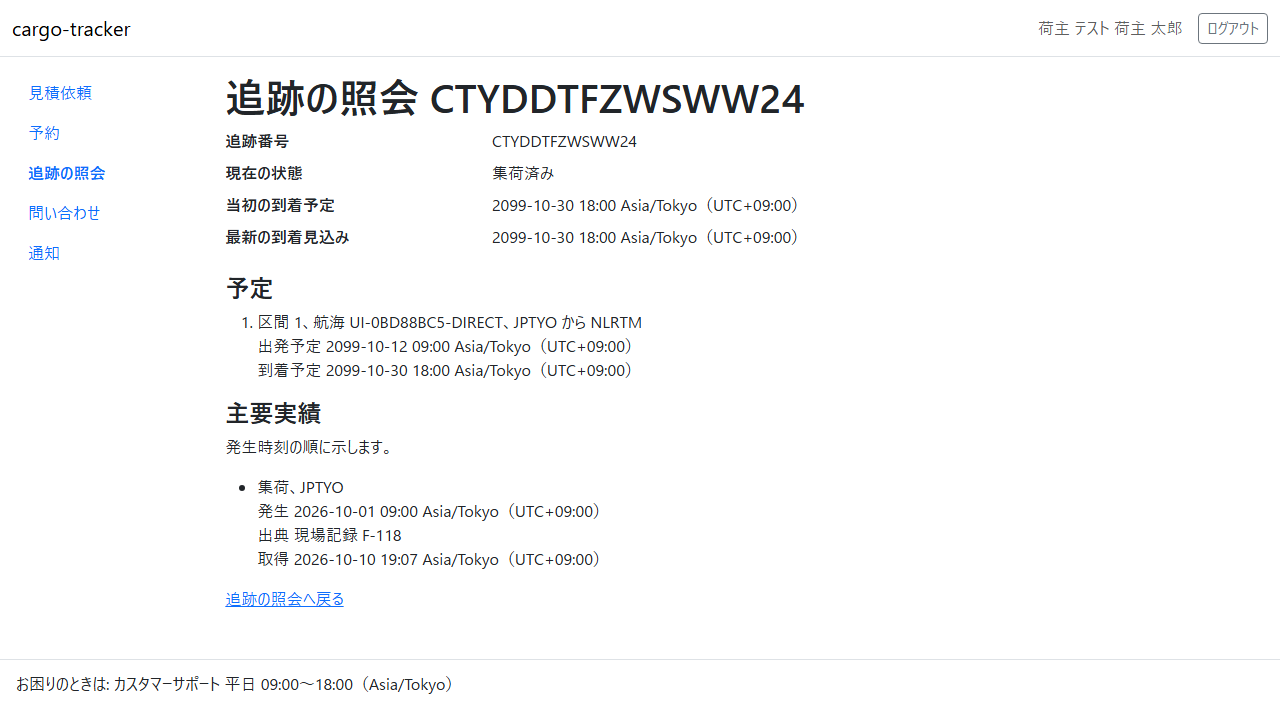
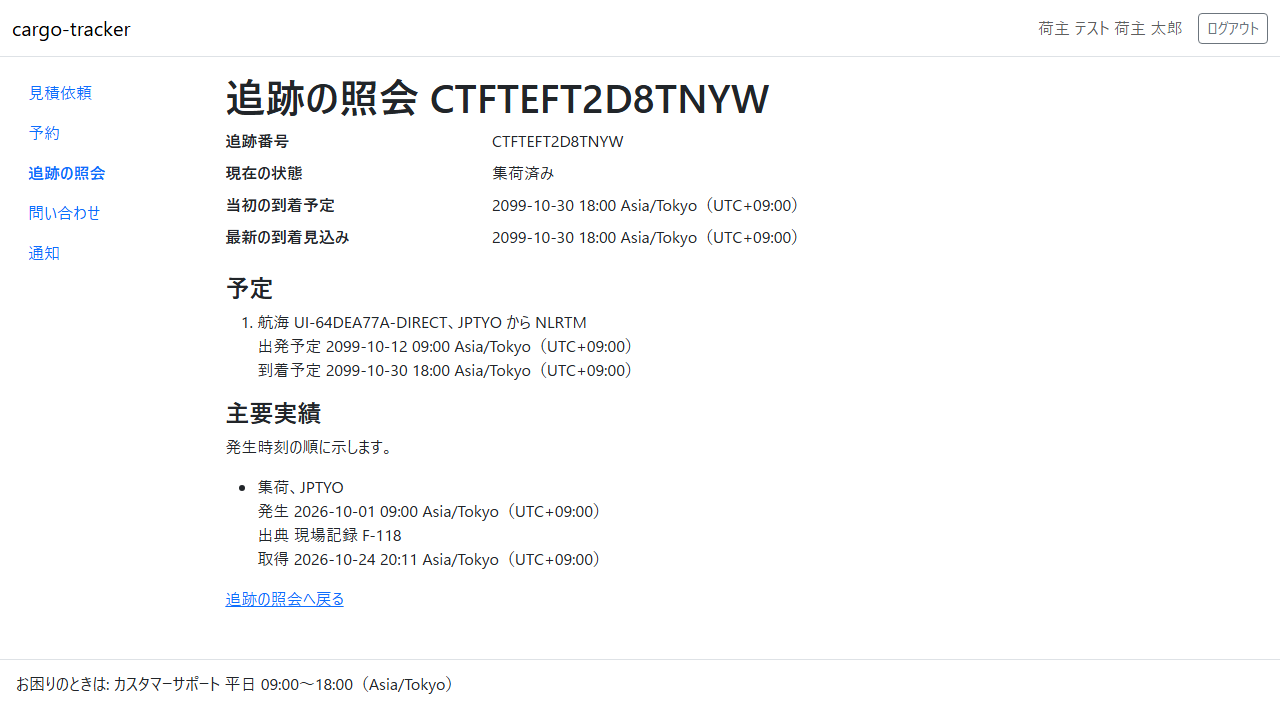
feat(ui): 荷主の画面の「区間」を「航海」にそろえる（Bolt 37f3）
- 荷主の追跡の照会の結果（C-10）の予定の行を「航海 V100、JPTYO から KRPUS」にする。社内の S-12 は「区間 1、…」のまま
- 共通の部品の経路の表の読み上げの名前を「確定した経路の航海（…）」にする（C-04・C-17・S-04）
- C-04・C-17・C-10 で「区間」が出ないことを MockMvc で確かめる。画面の層は先頭の行の形を確かめる
- マニュアル 4・5 章・用語集（区間は社内の語）と 05 章のキャプチャ、ui_design、release_plan を直す
- 開発レビューの指摘（区間が出ない確かめ、文言）を反映した

Claude-Session: https://claude.ai/code/session_01LDW6HVmiazMbqbG4c8UQGq

diff --git a/apps/cargo-tracker/src/main/resources/templates/tracking/tracking-records/show.html b/apps/cargo-tracker/src/main/resources/templates/tracking/tracking-records/show.html
@@ -24,7 +24,7 @@
     <h2 class="h4" id="schedule-heading">予定</h2>
     <ol aria-labelledby="schedule-heading">
         <li th:each="leg : ${trackingRecord.legs()}" class="mb-2">
-            <span th:text="${leg.summary()}">区間 1、航海 V100、JPTYO から KRPUS</span><br>
+            <span th:text="${leg.summary()}">航海 V100、JPTYO から KRPUS</span><br>
             <span th:text="|出発予定 ${leg.departureAt()}|">出発予定 2026-11-01 09:00 Asia/Tokyo（UTC+09:00）</span><br>
             <span th:text="|到着予定 ${leg.arrivalAt()}|">到着予定 2026-11-03 09:00 Asia/Tokyo（UTC+09:00）</span>
         </li>

diff --git a/apps/cargo-tracker/src/main/resources/templates/quotation/fragments/assigned-route.html b/apps/cargo-tracker/src/main/resources/templates/quotation/fragments/assigned-route.html
@@ -11,7 +11,7 @@
         <dt>到着予定</dt>
         <dd th:text="${route.arrivalAt()}">2026-10-31 09:00 Asia/Tokyo（UTC+09:00）</dd>
     </dl>
-    <div class="table-scroll" tabindex="0" role="region" th:aria-label="|確定した経路の区間（${route.label()}）|">
+    <div class="table-scroll" tabindex="0" role="region" th:aria-label="|確定した経路の航海（${route.label()}）|">
     <table class="table">
         <thead>
         <tr>

diff --git a/apps/cargo-tracker/src/main/java/com/example/cargotracker/tracking/interfaces/web/TrackingRecordViews.java b/apps/cargo-tracker/src/main/java/com/example/cargotracker/tracking/interfaces/web/TrackingRecordViews.java
@@ -19,6 +19,7 @@ import java.util.EnumMap;
 import java.util.List;
 import java.util.Map;
 import java.util.Optional;
+import java.util.function.BiFunction;
 import java.util.function.Function;
 import java.util.stream.IntStream;
 
@@ -143,7 +144,7 @@ final class TrackingRecordViews {
     /**
      * 予定区間の 1 項目。
      *
-     * @param summary 区間・航海・積地から揚地
+     * @param summary 航海・積地から揚地（社内の S-12 は先頭に「区間 n、」を付ける。荷主の C-10 は付けない。Bolt 37f3）
      * @param departureAt 出発予定
      * @param arrivalAt 到着予定
      */
@@ -168,7 +169,7 @@ final class TrackingRecordViews {
                 staff(trackingRecord.originalEta()),
                 staff(trackingRecord.latestEta()),
                 schedule.routingCaseNumber() + " 版 " + schedule.routeVersionNo(),
-                legs(schedule.legs(), TrackingRecordViews::staff),
+                legs(schedule.legs(), TrackingRecordViews::staff, TrackingRecordViews::legSummary),
                 trackingRecord.milestones().stream()
                         .sorted(Comparator.comparing((Milestone milestone) ->
                                         milestone.occurredAt().instant())
@@ -178,21 +179,32 @@ final class TrackingRecordViews {
     }
 
     /**
-     * 予定区間の項目（S-12 と C-10 で同じ。日時の書式だけが社内と荷主で違う。Bolt 27）。区間の表記は「→」でなく「から」にする
-     * （スクリーンリーダーが「右矢印」と読むため。Bolt 26 の U-4。Bolt 26c）。
+     * 予定区間の項目（S-12 と C-10 で形は同じ。日時の書式と 1 行の表記が社内と荷主で違う。Bolt 27・37f3）。積地と揚地は「→」でなく
+     * 「から」でつなぐ（スクリーンリーダーが「右矢印」と読むため。Bolt 26 の U-4。Bolt 26c）。
      */
-    private static List<LegView> legs(List<ScheduledLeg> legs, Function<UtcInstant, String> dateTime) {
+    private static List<LegView> legs(
+            List<ScheduledLeg> legs,
+            Function<UtcInstant, String> dateTime,
+            BiFunction<Integer, ScheduledLeg, String> summary) {
         return IntStream.range(0, legs.size())
                 .mapToObj(i -> new LegView(
-                        legSummary(i + 1, legs.get(i)),
+                        summary.apply(i + 1, legs.get(i)),
                         dateTime.apply(legs.get(i).departureAt()),
                         dateTime.apply(legs.get(i).arrivalAt())))
                 .toList();
     }
 
-    /** 区間の表記（S-12 と C-10 で同じ）。 */
+    /** 社内の S-12 の 1 行（「区間 n、航海 …」。区間は社内の語）。 */
     private static String legSummary(int legNo, ScheduledLeg leg) {
-        return "区間 " + legNo + "、航海 " + leg.voyageNumber() + "、" + leg.load().unLocode() + " から "
+        return "区間 " + legNo + "、" + customerLegSummary(leg);
+    }
+
+    /**
+     * 荷主の C-10 の 1 行（「航海 …、積地 から 揚地」）。社内の語「区間」と番号は出さず、順は順序付きのリストの並びで示す（候補は同じ
+     * 航海と港を 2 回使わず、予定はつながるので、行は航海と積地・揚地で区別できる。Bolt 37f の開始準備の決定 (4)。Bolt 37f3）。
+     */
+    private static String customerLegSummary(ScheduledLeg leg) {
+        return "航海 " + leg.voyageNumber() + "、" + leg.load().unLocode() + " から "
                 + leg.discharge().unLocode();
     }
 
@@ -270,7 +282,7 @@ final class TrackingRecordViews {
                 status(view.currentStatus()),
                 customer(view.originalEta()),
                 customer(view.latestEta()),
-                legs(view.legs(), TrackingRecordViews::customer),
+                legs(view.legs(), TrackingRecordViews::customer, (legNo, leg) -> customerLegSummary(leg)),
                 view.milestones().stream()
                         .map(TrackingRecordViews::customerMilestone)
                         .toList());

diff --git a/apps/cargo-tracker/src/test/java/com/example/cargotracker/tracking/interfaces/web/CustomerTrackingControllerTest.java b/apps/cargo-tracker/src/test/java/com/example/cargotracker/tracking/interfaces/web/CustomerTrackingControllerTest.java
@@ -3,6 +3,7 @@ package com.example.cargotracker.tracking.interfaces.web;
 import static org.assertj.core.api.Assertions.assertThat;
 import static org.hamcrest.Matchers.containsString;
 import static org.hamcrest.Matchers.not;
+import static org.hamcrest.Matchers.stringContainsInOrder;
 import static org.mockito.ArgumentMatchers.any;
 import static org.mockito.BDDMockito.given;
 import static org.mockito.BDDMockito.then;
@@ -181,7 +182,9 @@ class CustomerTrackingControllerTest {
                 .andExpect(content().string(containsString("2026-11-15 09:00 Asia/Tokyo（UTC+09:00）")))
                 .andExpect(content().string(containsString("2026-11-16 12:00 Asia/Tokyo（UTC+09:00）")))
                 .andExpect(content().string(containsString("<ol aria-labelledby=\"schedule-heading\"")))
-                .andExpect(content().string(containsString("区間 1、航海 V100、JPTYO から KRPUS")))
+                // 荷主の画面は社内の語「区間」を出さず、航海を予定の順に並べる（Bolt 37f3 の行 1）
+                .andExpect(content().string(stringContainsInOrder("航海 V100、JPTYO から KRPUS", "航海 V200、KRPUS から USLAX")))
+                .andExpect(content().string(not(containsString("区間"))))
                 .andExpect(content().string(containsString("出発予定 2026-11-01 09:00 Asia/Tokyo（UTC+09:00）")))
                 .andExpect(content().string(containsString("<ul aria-labelledby=\"milestones-heading\"")))
                 .andExpect(content().string(containsString("集荷、JPTYO")))

diff --git a/apps/cargo-tracker/src/test/java/com/example/cargotracker/ui/CustomerTrackingUiSteps.java b/apps/cargo-tracker/src/test/java/com/example/cargotracker/ui/CustomerTrackingUiSteps.java
@@ -7,6 +7,7 @@ import com.microsoft.playwright.Page;
 import com.microsoft.playwright.options.AriaRole;
 import io.cucumber.java.ja.ならば;
 import io.cucumber.java.ja.もし;
+import java.util.regex.Pattern;
 import org.springframework.beans.factory.annotation.Value;
 import org.springframework.boot.test.web.server.LocalServerPort;
 
@@ -84,7 +85,11 @@ public class CustomerTrackingUiSteps {
         assertThat(definition("現在の状態")).hasText(status);
         Locator legs = page().getByRole(
                         AriaRole.LIST, new Page.GetByRoleOptions().setName("予定").setExact(true));
-        assertThat(legs.getByRole(AriaRole.LISTITEM).first()).containsText("区間 1");
+        // 荷主の画面は社内の語「区間」を出さない（Bolt 37f3 の行 1。ある方を先に確かめる）
+        // 航海の名前は撮るたびに変わるので、先頭からの形で確かめる
+        assertThat(legs.getByRole(AriaRole.LISTITEM).first())
+                .containsText(Pattern.compile("^\\s*航海 \\S+、[A-Z]{5} から [A-Z]{5}"));
+        assertThat(legs.getByRole(AriaRole.LISTITEM).first()).not().containsText("区間");
         Locator milestones = page().getByRole(
                         AriaRole.LIST,
                         new Page.GetByRoleOptions().setName("主要実績").setExact(true));

diff --git a/apps/cargo-tracker/src/test/java/com/example/cargotracker/quotation/interfaces/web/StaffQuotationControllerTest.java b/apps/cargo-tracker/src/test/java/com/example/cargotracker/quotation/interfaces/web/StaffQuotationControllerTest.java
@@ -718,7 +718,9 @@ class StaffQuotationControllerTest {
                     .andExpect(content().string(containsString("を過ぎました。承認済みの経路版と経路方針を引き継いで再見積りできます。荷主の再承認が要ります。")))
                     .andExpect(content().string(not(containsString("再見積りはできません"))))
                     .andExpect(content().string(containsString("/quotations/1/requotation")))
-                    .andExpect(content().string(containsString("確定した経路（RC-2026-0001 経路版 1）")));
+                    .andExpect(content().string(containsString("確定した経路（RC-2026-0001 経路版 1）")))
+                    // 共通の部品なので社内の S-04 も同じ読み上げの名前（Bolt 37f3 の行 4）
+                    .andExpect(content().string(containsString("aria-label=\"確定した経路の航海（RC-2026-0001 経路版 1）\"")));
         } finally {
             clock.setInstant(NOW);
         }

diff --git a/apps/cargo-tracker/src/test/java/com/example/cargotracker/quotation/interfaces/web/QuotationApprovalControllerTest.java b/apps/cargo-tracker/src/test/java/com/example/cargotracker/quotation/interfaces/web/QuotationApprovalControllerTest.java
@@ -155,6 +155,9 @@ class QuotationApprovalControllerTest {
                 .andExpect(content().string(containsString("3,730.00 USD")))
                 .andExpect(content().string(containsString("2099-10-08 18:00 Asia/Tokyo（UTC+09:00）")))
                 .andExpect(content().string(containsString("RC-2026-0001 経路版 1")))
+                // 経路の表の読み上げの名前（Bolt 37f3 の行 3）
+                .andExpect(content().string(containsString("aria-label=\"確定した経路の航海（RC-2026-0001 経路版 1）\"")))
+                .andExpect(content().string(not(containsString("区間"))))
                 .andExpect(content().string(containsString("2026-10-07 14:00 Asia/Tokyo（UTC+09:00）")))
                 .andExpect(content().string(containsString("V-201")))
                 .andExpect(content().string(containsString("JPTYO → SGSIN")))

diff --git a/apps/cargo-tracker/src/test/java/com/example/cargotracker/quotation/interfaces/web/TransportRequestControllerTest.java b/apps/cargo-tracker/src/test/java/com/example/cargotracker/quotation/interfaces/web/TransportRequestControllerTest.java
@@ -493,6 +493,9 @@ class TransportRequestControllerTest {
         mockMvc.perform(get("/customer/transport-requests/TR-2026-0001"))
                 .andExpect(content().string(containsString("見積 1（見積りと経路の承認待ち）")))
                 .andExpect(content().string(containsString("確定した経路（RC-2026-0001 経路版 1）")))
+                // 経路の表の読み上げの名前は社内の語「区間」を使わない（Bolt 37f3 の行 3）
+                .andExpect(content().string(containsString("aria-label=\"確定した経路の航海（RC-2026-0001 経路版 1）\"")))
+                .andExpect(content().string(not(containsString("区間"))))
                 .andExpect(content().string(containsString("JPTYO → SGSIN")))
                 .andExpect(
                         content()

diff --git a/apps/cargo-tracker/src/test/java/com/example/cargotracker/tracking/interfaces/web/TrackingRecordControllerTest.java b/apps/cargo-tracker/src/test/java/com/example/cargotracker/tracking/interfaces/web/TrackingRecordControllerTest.java
@@ -191,6 +191,7 @@ class TrackingRecordControllerTest {
                         .string(containsString("2026-11-16 12:00 Asia/Tokyo（UTC+09:00）（UTC 2026-11-16 03:00）")))
                 .andExpect(content().string(containsString("<dd class=\"col-sm-9\">RC-2026-0001 版 1</dd>")))
                 .andExpect(content().string(containsString("<ol aria-labelledby=\"schedule-heading\"")))
+                // 社内の S-12 は「区間 n、」のまま（Bolt 37f3 の行 2。荷主の C-10 だけ「航海 …」にした）
                 .andExpect(content().string(containsString("区間 1、航海 V100、JPTYO から KRPUS")))
                 .andExpect(content().string(containsString("区間 2、航海 V200、KRPUS から USLAX")))
                 .andExpect(content()

diff --git a/docs/design/cargo-tracker/ui_design.md b/docs/design/cargo-tracker/ui_design.md
@@ -4,7 +4,7 @@ title: "cargo-tracker UI 設計"
 description: "cargo-tracker の顧客 Web と社内業務 Web の画面オブジェクト、システムメタファー、画面一覧、画面遷移、主要画面のイメージ、共通部品（WCAG 2.2 AA）、エラー時を含むインタラクション。"
 tags: [design, ui]
 status: stable
-generated: { by: anthropic/claude-opus-5-5, at: 2026-10-23T10:51:10Z }
+generated: { by: anthropic/claude-opus-5-5, at: 2026-10-24T11:57:25Z }
 verified:
   - { by: human:kakimomokuri, at: 2026-10-01T07:57:45Z }
   - { by: human:kakimomokuri, at: 2026-10-01T09:01:39Z }
@@ -44,7 +44,7 @@ verified:
 
 ## システムメタファー
 
-輸送の情報を **旅程表** にたとえ、顧客 Web と社内業務 Web で同じ語彙を使う。
+輸送の情報を **旅程表** にたとえ、顧客 Web と社内業務 Web で同じ語彙を使う。ただし「区間」は社内の語とし、荷主の画面（顧客 Web）とマニュアルの荷主の章では「航海」と示す（Bolt 37f の開始準備の決定 (4)。Bolt 37f3）。経路の表の読み上げの名前は共通の部品なので、社内の S-04 も「確定した経路の航海（…）」とする。
 
 | 旅程表のたとえ | 画面の語 | ドメインの概念 |
 | :--- | :--- | :--- |
@@ -157,12 +157,12 @@ verified:
 | C-03 見積依頼の作成・編集 | `GET /customer/transport-requests/new`、`POST /customer/transport-requests` | 必須条件（荷受人・出発地・目的地・希望到着期限・貨物）とエラー要約、特殊貨物の案内を持つ。共通レイアウト（顧客 Web）の中で、輸送条件・貨物・書類・確認の 4 段階の段階入力にする（Bolt 8。下の「段階入力」）。荷受人は企業マスターができるまで設定の仮の一覧から選ぶ（US-16 で置き換える）。必要書類の入力は種類ごとの欄（`multipart/form-data`）で、1 つの版に 5 件まで（商業送り状 1 件、梱包明細 1 件、その他 3 件まで。Q-INV-16）。書類は任意（D-20）。形式・容量・件数の誤りはエラー要約で示し、ブラウザはファイルの選択を残せないため、エラー要約と書類の段階で選び直しを求める（Bolt 6〜8 レビュー R-02・R-20）。失効の後に入力の控えを戻すと段階 1 から開き、ファイルは段階 3 で選び直す（Bolt 32f。下の「段階入力」の表の「失効の後の入力の戻し」） |
 | C-02 見積依頼の一覧 | `GET /customer/transport-requests` | Bolt 6 は自社の輸送要求を、最初の提出時刻の新しい順に一覧する（ページ分けと状態の絞り込みは後の Bolt）。業務番号、版、状態（いま誰の対応待ちか）、出発地 → 目的地、提出時刻を示す。Bolt 35d（D-85）で、輸送要求が予約待ち・荷主承認待ちの行は、状態を荷主に見える最新の見積り（提示済みで見積り番号の最大）から選び、C-04 と同じ表示にする（「輸送要求の状態と荷主の画面の表示の対応」の節。輸送要求の状態の更新（DE-24・DE-04 の受け取り）を待たない）。最新の見積りは、自社の輸送要求ごとに状態・有効期限・荷主の承認の時刻・提示の時刻・荷主の回答の時刻を返す集約を組み立てない読み取りモデル（`ShipperLatestQuotationSummary`）で得て、業務番号で行に合わせる。照会は輸送要求の状態で絞らない（どの状態で見積りから選ぶかは画面の `TransportRequestLabels.customerStage` だけが決める。Bolt 35d の開発レビュー）。社内の一覧と共用の輸送要求の読み取りモデル（`TransportRequestSummary`）は変えない（D-85。Bolt 35d） |
 | C-04 見積依頼の詳細 | `GET /customer/transport-requests/{業務番号}` | Bolt 6 は版、状態、いま誰の対応待ちか、輸送条件、直近の差戻しの理由と不足事項、下書きのときの編集への入口を示す（担当営業・複製・取下げは後の Bolt）。Bolt 10 で、提示済みの見積りがあれば見積りの節（料金明細と合計、有効期限（利用者のタイムゾーンと UTC offset）、経路方針、詳細な経路は経路設計者の承認後に確定する旨）を足す。見積りの節は見積りの状態から出し、輸送要求の状態の更新（DE-03 の受け取り）を待たない（2026-10-05 に承認）。Bolt 11 で、最新の見積り（提示済み・置換済み・失効）を出す。置換済みなら「この見積りは読み取り専用です。担当営業が新しい見積りを準備しています。提示されるまでお待ちください。」、失効（表示する時刻で有効期限を過ぎたものを含む）なら有効期限と「新しい見積りは担当営業にご依頼ください。」を出し、回答の案内は出さない。荷主には状態の「置換済み」を「新しい見積りに置き換え」と示す（Bolt 11 レビュー R-01・R-03・R-33、D-37）。旧版は最新の見積りの下に、見積り番号の降順で読み取り専用で並べる。作成中・承認待ちの見積りは荷主に見せない（2026-10-05 に承認）。審査の確定の根拠と判断者は見せない。提出と出し直しの後の PRG のリダイレクト先で、結果（例: TR-2026-0001 版 1 を提出しました）を上部に示す。旧 C-03 の提出の完了（`/{業務番号}/submitted`）を統合してなくした（2026-10-03 に承認）。Bolt 12 で、提示済みで有効な見積りに「見積りに回答する」（C-05 へのリンク）を出し、Bolt 10 の仮の案内を置き換える。詳細設計依頼済みの見積りは荷主に「詳細経路設計を依頼済み」と回答の日時を示す（2026-10-06 に承認）。経路設計中に失効したら、依頼の日時を残し「有効期限（…）を過ぎました。詳細経路設計は依頼済みのまま進めています。料金の扱いは担当営業からご連絡します。」と示し、新しい見積りの依頼は求めない（Bolt 12 レビュー R-01、D-42）。Bolt 20 で、荷主承認待ちの見積りに「確定した経路（RC-… 経路版 n）が届きました」と「見積りと経路を確かめて承認へ」（C-17 へのリンク）を、承認済みの見積りに承認の日時と「担当営業が本予約を確定します。確定したらご連絡します。」を示す。承認の後に有効期限を過ぎたら「承認の後に有効期限（…）を過ぎました。本予約の扱いは担当営業からご連絡します。」を示す（Bolt 20 レビュー）。荷主承認待ちで失効したら、承認の入口を出さず「有効期限（…）を過ぎたため承認できません。新しい見積りは担当営業にご依頼ください。」を示す。Bolt 35d（D-85）で、輸送要求が予約待ち・荷主承認待ちのとき、状態と案内を荷主に見える最新の見積りから選ぶ（C-02 と同じ。「輸送要求の状態と荷主の画面の表示の対応」の節）。再見積りした見積り（再承認の見積り。荷主の回答の時刻が提示の時刻より前）で荷主承認待ち・有効なら、状態の下の案内に「料金と有効期限を出し直した見積りが届きました。もう一度承認してください。」、見積りの節に「承認いただいた経路のまま、料金と有効期限を出し直した見積りです。」を示し、承認の入口は今のまま出す（状態の下の案内は「すること」、見積りの節は「事実」。同じ文を 2 回出さない。Bolt 35d の開発レビュー。human:kakimomokuri の決定 (8)）。荷主承認済みで失効した見積り（承認済みのまま時刻で失効、または再見積りで失効を記録）で、予約確定済みでなければ、状態の下に「承認の後に見積りの有効期限を過ぎました。担当営業が新しい見積りを用意しています。」、見積りの節に「承認の後に有効期限（…）を過ぎました。用意できたら、もう一度承認をお願いします。」の 1 文だけを示す（この判定は controller の 1 か所（`expiredAfterApproval`）で決め、テンプレートはその値だけを見る）（Bolt 20 の「承認の後に有効期限（…）を過ぎました。本予約の扱いは担当営業からご連絡します。」と、失効の「新しい見積りは担当営業にご依頼ください。」は出さない）。予約確定済みで承認済みの見積りは、期限を過ぎていても承認の記録「…にこの見積りと経路を承認しました。」だけを示す（承認の後の失効の文を出さない）。「詳細経路設計を依頼済み」と回答の日時（依頼の文）は、詳細設計依頼済み・荷主承認待ち・承認済みで、再承認の見積りでなく、承認の後に失効して予約確定済みでないとき以外示す（再承認の見積りの回答の日時は旧版から引き継いだもので、その見積りで依頼した事実はない）。以前の見積り（読み取り専用の一覧）は今のまま（D-85。Bolt 35d）。Bolt 37e3（US-07 AC5）で、割り当てた経路に再設計要の印のある見積りは、承認の入口（「見積りと経路を確かめて承認へ」）を出さず、状態の下の案内を理由に替える。荷主承認待ちなら「割り当てた経路の見直しが必要になったため、この見積りと経路は承認できません。担当営業にご相談ください。」、承認済みなら「割り当てた経路の見直しが必要になりました。本予約の扱いは担当営業からご連絡します。」を示し、「承認してください」「担当営業が本予約を確定します。確定したらご連絡します。」を出さない。状態の表示名は今のまま。荷主の画面なので社内の語（再設計要、印、DE-06、経路版の番号）を出さない。案内は輸送要求の状態だけで組み立てていたので、見積りの印を渡す。失効の案内（承認の後の失効を含む）は今のまま先に示す（見積りの判定は期限切れを先に返す）。印のない見積りは今のまま（Bolt 37e3 計画の状態の組み合わせの行 1〜3。下の「C-04 見積依頼の詳細（進み具合）」の節）。Bolt 37e4（US-07 AC5、D-88）で、割り当てた経路の最初の区間の出発予定が表示する時刻と同時刻か前の見積り（出発済み）も、承認の入口を出さず、状態の下の案内を理由に替える。荷主承認待ち（再承認の見積りを含む）なら「割り当てた経路の最初の航海がすでに出発したため、この見積りと経路は承認できません。担当営業にご相談ください。」、承認済みなら「割り当てた経路の最初の航海がすでに出発しました。本予約の扱いは担当営業からご連絡します。」を示し、「もう一度承認してください」「担当営業が本予約を確定します。確定したらご連絡します。」（見積りの節の段落を含む）を出さない。荷主の画面なので社内の語（区間、出発済み、再設計要）を出さず、経路の表の列の語「航海」で示す。再設計要の印と出発済みの両方なら再設計要の案内だけを示す（見積りの判定は再設計要を先に返す）。失効の案内は今のまま先に示す（Bolt 37e4 計画の状態の組み合わせの行 8〜10） |
-| C-17 見積りと経路の承認 | `GET /customer/transport-requests/{業務番号}/quotations/{見積り番号}/approval`、`POST …/approval` | Bolt 20（US-24 AC4・AC5）。画面そのものが確認の領域（C-05・S-07 と同じ。別のダイアログは挟まない。BR-13）。料金明細と合計、有効期限（利用者のタイムゾーンと UTC offset）、確定した経路（案件番号と経路版、確定の日時、区間ごとの航海・積地 → 揚地・出発予定・到着予定。最後の到着予定を「到着予定」として示す）、「この見積りと経路で承認しますか」、「有効期限（…）までに承認してください。」、「承認は本予約の確定ではありません。承認の後、担当営業が本予約を確定します。」と「この見積りと経路で承認する」。搬入締切・書類締切は本予約（US-04）で決まるため示さない。ボタンの後に「条件を見直したい場合は、承認せずに業務番号を添えて担当営業にご連絡ください。」を示す。承認すると PRG で C-04 に戻り「TR-2026-0001 見積 1 の見積りと経路を承認しました。担当営業が本予約を確定します。」を示す。承認できない見積りは、開いても送っても C-04 に戻して理由を示す: 失効（承認の時刻が有効期限と同時刻または後）は「…は有効期限を過ぎたため承認できません。新しい見積りは担当営業にご依頼ください」、置換済みは「…は新しい見積りに置き換えられたため承認できません。見積依頼の詳細で最新の状況をご確認ください」、承認済み（二重送信など）は結果として「…の見積りと経路はすでに承認しています」、荷主承認待ちでない（経路の割当ての前）は「…はまだ承認できる見積りではありません。経路が確定したら承認できます」、競合は「見積りが更新されました。最新の見積りと経路を確かめてから承認してください」。荷主の画面の見積りの状態は「見積りと経路の承認待ち」「承認済み」と示し、経路を割り当てた見積りでは「詳細な経路は経路設計者の承認後に確定します」を出さない（Bolt 20 の実装で決めた）。荷主に提示していない見積りと他社の番号は 404。荷主担当者だけが開ける（他の役割は 403）。Bolt 35d（D-85）で、再承認の見積り（荷主の回答の時刻が提示の時刻より前）なら、「この見積りと経路で承認しますか」の前に「承認いただいた経路のまま、料金と有効期限を出し直した見積りです。」を示す（Bolt 35d の開発レビューで「経路版と経路方針」を「経路」にした。human:kakimomokuri の決定 (8)）。画面は見積り番号に依らず、再見積りした見積り（見積 2 など）も同じ URL で開いて承認できる。成功の文言は今のまま（D-85。Bolt 35d）。Bolt 37e3（US-07 AC5）で、割り当てた経路に再設計要の印のある見積り（荷主承認待ち）は、開いても送っても C-04 に戻し「TR-2026-0001 見積 1 は割り当てた経路の見直しが必要になったため承認できません。担当営業にご相談ください」を示す（見積りの判定の理由 `ROUTE_REDESIGN_REQUIRED`。これまでは既定の「承認できません。担当営業にご連絡ください」だった。社内の語は出さない。Bolt 37e3 計画の状態の組み合わせの行 4）。判定の順（置換済み・失効の記録 → 承認済み → 期限切れ → 荷主承認待ちでない → 再設計要）は変えないので、失効・置換済み・承認済みの文言が先に出る。Bolt 37e4（US-07 AC5、D-88）で、割り当てた経路の最初の区間が出発済みの見積り（荷主承認待ち。出発予定が承認の時刻と同時刻か前）も、開いても送っても C-04 に戻し「TR-2026-0001 見積 1 は割り当てた経路の最初の航海がすでに出発したため承認できません。担当営業にご相談ください」を示す（見積りの判定の理由 `ROUTE_ALREADY_DEPARTED`。これまでは既定の文言だった。判定の順の最後（再設計要の後）に足すので、再設計要の文言が先に出る。Bolt 37e4 計画の状態の組み合わせの行 11） |
+| C-17 見積りと経路の承認 | `GET /customer/transport-requests/{業務番号}/quotations/{見積り番号}/approval`、`POST …/approval` | Bolt 20（US-24 AC4・AC5）。画面そのものが確認の領域（C-05・S-07 と同じ。別のダイアログは挟まない。BR-13）。料金明細と合計、有効期限（利用者のタイムゾーンと UTC offset）、確定した経路（案件番号と経路版、確定の日時、航海ごとに 1 行の航海番号・積地 → 揚地・出発予定・到着予定。最後の到着予定を「到着予定」として示す）、「この見積りと経路で承認しますか」、「有効期限（…）までに承認してください。」、「承認は本予約の確定ではありません。承認の後、担当営業が本予約を確定します。」と「この見積りと経路で承認する」。搬入締切・書類締切は本予約（US-04）で決まるため示さない。ボタンの後に「条件を見直したい場合は、承認せずに業務番号を添えて担当営業にご連絡ください。」を示す。承認すると PRG で C-04 に戻り「TR-2026-0001 見積 1 の見積りと経路を承認しました。担当営業が本予約を確定します。」を示す。承認できない見積りは、開いても送っても C-04 に戻して理由を示す: 失効（承認の時刻が有効期限と同時刻または後）は「…は有効期限を過ぎたため承認できません。新しい見積りは担当営業にご依頼ください」、置換済みは「…は新しい見積りに置き換えられたため承認できません。見積依頼の詳細で最新の状況をご確認ください」、承認済み（二重送信など）は結果として「…の見積りと経路はすでに承認しています」、荷主承認待ちでない（経路の割当ての前）は「…はまだ承認できる見積りではありません。経路が確定したら承認できます」、競合は「見積りが更新されました。最新の見積りと経路を確かめてから承認してください」。荷主の画面の見積りの状態は「見積りと経路の承認待ち」「承認済み」と示し、経路を割り当てた見積りでは「詳細な経路は経路設計者の承認後に確定します」を出さない（Bolt 20 の実装で決めた）。荷主に提示していない見積りと他社の番号は 404。荷主担当者だけが開ける（他の役割は 403）。Bolt 35d（D-85）で、再承認の見積り（荷主の回答の時刻が提示の時刻より前）なら、「この見積りと経路で承認しますか」の前に「承認いただいた経路のまま、料金と有効期限を出し直した見積りです。」を示す（Bolt 35d の開発レビューで「経路版と経路方針」を「経路」にした。human:kakimomokuri の決定 (8)）。画面は見積り番号に依らず、再見積りした見積り（見積 2 など）も同じ URL で開いて承認できる。成功の文言は今のまま（D-85。Bolt 35d）。Bolt 37e3（US-07 AC5）で、割り当てた経路に再設計要の印のある見積り（荷主承認待ち）は、開いても送っても C-04 に戻し「TR-2026-0001 見積 1 は割り当てた経路の見直しが必要になったため承認できません。担当営業にご相談ください」を示す（見積りの判定の理由 `ROUTE_REDESIGN_REQUIRED`。これまでは既定の「承認できません。担当営業にご連絡ください」だった。社内の語は出さない。Bolt 37e3 計画の状態の組み合わせの行 4）。判定の順（置換済み・失効の記録 → 承認済み → 期限切れ → 荷主承認待ちでない → 再設計要）は変えないので、失効・置換済み・承認済みの文言が先に出る。Bolt 37e4（US-07 AC5、D-88）で、割り当てた経路の最初の区間が出発済みの見積り（荷主承認待ち。出発予定が承認の時刻と同時刻か前）も、開いても送っても C-04 に戻し「TR-2026-0001 見積 1 は割り当てた経路の最初の航海がすでに出発したため承認できません。担当営業にご相談ください」を示す（見積りの判定の理由 `ROUTE_ALREADY_DEPARTED`。これまでは既定の文言だった。判定の順の最後（再設計要の後）に足すので、再設計要の文言が先に出る。Bolt 37e4 計画の状態の組み合わせの行 11） |
 | C-05 見積りへの回答 | `GET /customer/transport-requests/{業務番号}/quotations/{見積り番号}/response`、`POST …/response` | Bolt 12（US-24 AC1）。料金明細と合計、有効期限、経路方針と、見積りの共通の部品の「詳細な経路は、経路設計者の承認後に確定します。」（経路がまだないときに出る。C-04・S-04 と同じ）を示し（Bolt 29b で、画面に重ねて出していた「詳細な経路と日程は経路設計者の承認後に確定します」をやめた。#46）、「この条件で詳細経路設計へ進む」だけを出す。辞退・相談（AC2・AC3）までは「辞退や条件の相談は担当営業にご連絡ください」と書く。確認の領域は挟まない（C-05 自体が確かめる画面）。ボタンの前に「この回答は予約の確定ではありません。経路が決まったら、あらためて見積りと経路を確かめて承認していただきます。」と辞退・相談の案内を、後に「回答を取り消したい場合は、業務番号を添えて担当営業にご連絡ください。」を示す（Bolt 12 レビュー R-03）。進むと PRG で C-04 に戻り、結果（例: TR-2026-0001 見積 1 で詳細経路設計を依頼しました）を示す。回答できない見積り（置換済み・失効）は、開いても送っても理由を示して C-04 に戻す。回答済み（二重送信など）は結果として「…ですでに詳細経路設計を依頼しています」と示す（R-13）。荷主に提示していない見積りは 404他社の番号は 404（2026-10-06 に承認） |
 | C-03 見積依頼の編集（出し直し） | `GET /customer/transport-requests/{業務番号}/edit`、`POST /customer/transport-requests/{業務番号}/versions` | 下書き（差戻し）のときだけ開ける。現在の版の輸送条件を初期値にし、「出し直すと版 N になります。業務番号は変わりません」と案内する。出し直しは新しい版を作る。下書きでないときは C-04 に戻して理由を示す。期待版（ARCH-HO-01）は画面に持たせず、二重送信は「審査中のため出し直せません」、同時の更新は「他の利用者が先に更新しました」で拒否する（2026-10-03 に承認） |
 | 必要書類の取得 | 荷主: `GET /customer/transport-requests/{業務番号}/versions/{版}/documents/{書類番号}`、営業: `GET /staff/transport-requests/{業務番号}/versions/{版}/documents/{書類番号}` | Bolt 7。C-04 と S-03 に現在の版の書類の一覧（種類、ファイル名、大きさ）と取得のリンクを出す。`Content-Disposition: attachment`（RFC 6266 の `filename*`）と `X-Content-Type-Options: nosniff` で返し、ブラウザの中で開かせない。荷主は荷主企業で絞り、他社の番号は 404（2026-10-03 に承認）。編集（出し直し）では前の版の書類を一覧で示し、選ばなかった種類は引き継ぐことと、ある種類を選ぶとその種類の前の版の書類を差し替えることを案内する（2026-10-05 の D-25。Bolt 9）。取得できるのは現在の版の書類だけで、前の版の書類の URL は 404 にする（Bolt 6〜8 レビュー R-19） |
 | C-10 追跡の照会 | `GET /customer/tracking-records`（追跡番号の入力は `?trackingNumber=`） | Bolt 27（US-09 AC1、BR-07）。荷主担当者の企業の追跡記録だけを、追跡の開始の新しい順に上限 50 件まで表で一覧する（見出し「自社の貨物」、キャプション「追跡中の貨物（本予約の確定の新しい順）」、列は追跡番号・現在の状態・最新の到着見込み。上限を超えたら「新しい 50 件だけを示しています。それより前の貨物は、追跡番号を入れて照会してください。」）。空のときは「追跡中の貨物はまだありません。担当営業が本予約を確定すると、ここに出ます。」。追跡番号の入力（見出し「追跡番号で照会する」、`role="search"` のフォーム、ラベル「追跡番号」、例のヒント）は GET のフォームで、空白とハイフンを除き（区切って伝えられた番号を受け付ける。Bolt 27 の開発レビューの判断）英字を大文字にそろえ、形式が正しければ結果へリダイレクトする（1 画面 = 1 URL）。空・形式の誤りはエラー要約（「入力してください」「CT で始まる 14 文字で入力してください。英字の I・L・O と数字の 0・1 は使いません（例: CTABCDEFGH2345）」）と項目の下に示し、入力値を残す |
-| C-10 照会の結果 | `GET /customer/tracking-records/{追跡番号}` | Bolt 27。追跡番号・現在の状態・当初の到着予定・最新の到着見込みの定義リスト、見出し「予定」の下に予定区間の順序付きのリスト（区間の要約・出発予定・到着予定）、見出し「主要実績」の下に採用済みの実績のリスト（種類と場所・発生・出典・取得。出典と取得時刻は括弧を重ねないよう行を分ける。発生時刻の順）、空のときは「主要実績はまだありません。」、「追跡の照会へ戻る」。日時は荷主の表示（Asia/Tokyo と UTC オフセット。UTC は併記しない）。経路版・実績番号・実績の状態・登録者は出さない（T-INV-09）。他社・存在しない・形式の誤りの追跡番号は、どれも同じ 404 で、既定のエラーページではなく C-10 の案内（見出し「追跡番号が見つかりません」、「この追跡番号の貨物は見つかりませんでした。追跡番号に誤りがないか確かめてください。」「自社の貨物でない追跡番号は照会できません。」と「追跡の照会へ戻る」）を示す（状態と本文が同じ。BR-07。打ち間違いが日常の経路なので、Bolt 27 の開発レビューの判断で作った。ほかの画面の 404 は既定のエラーページのまま）。確認中・判明事実・次の行動・次回の更新（AC2）は R1.0、問い合わせは US-20 |
+| C-10 照会の結果 | `GET /customer/tracking-records/{追跡番号}` | Bolt 27。追跡番号・現在の状態・当初の到着予定・最新の到着見込みの定義リスト、見出し「予定」の下に予定の順序付きのリスト（航海の要約（航海番号と積地から揚地。社内の S-12 の「区間 n、」は付けない。Bolt 37f3）・出発予定・到着予定）、見出し「主要実績」の下に採用済みの実績のリスト（種類と場所・発生・出典・取得。出典と取得時刻は括弧を重ねないよう行を分ける。発生時刻の順）、空のときは「主要実績はまだありません。」、「追跡の照会へ戻る」。日時は荷主の表示（Asia/Tokyo と UTC オフセット。UTC は併記しない）。経路版・実績番号・実績の状態・登録者は出さない（T-INV-09）。他社・存在しない・形式の誤りの追跡番号は、どれも同じ 404 で、既定のエラーページではなく C-10 の案内（見出し「追跡番号が見つかりません」、「この追跡番号の貨物は見つかりませんでした。追跡番号に誤りがないか確かめてください。」「自社の貨物でない追跡番号は照会できません。」と「追跡の照会へ戻る」）を示す（状態と本文が同じ。BR-07。打ち間違いが日常の経路なので、Bolt 27 の開発レビューの判断で作った。ほかの画面の 404 は既定のエラーページのまま）。確認中・判明事実・次の行動・次回の更新（AC2）は R1.0、問い合わせは US-20 |
 | S-02 見積依頼の受付一覧 | `GET /staff/transport-requests` | 審査中（Bolt 5）と見積り作成中（Bolt 10。行から S-04 を開ける。2026-10-05 に承認）の 2 つの表を、それぞれ最初の提出時刻の古い順に一覧する。Bolt 11 で見積提示済みの表を足し、見積依頼ごとの最新の見積り（再見積りで作った承認待ちを含む）を、見積りの表記・状態（表示する時刻で失効なら「失効」）・有効期限で、有効期限の近い順に示し、行から S-04 を開ける（Bolt 11 レビュー R-02、D-38）。審査中の表は業務番号、版、最初の提出時刻、待っている時間、貨物種別、出発地 → 目的地、希望到着期限を、見積り作成中の表は貨物種別を除いた同じ列を示す（Bolt 9・10 レビュー R-21）。審査の確定・差戻しの結果を一覧の上部に示す。社内の画面では荷主企業で絞らない。Bolt 12 で経路設計中の表を足し、経路設計中の見積依頼ごとの詳細設計依頼済みの見積りを、見積りの表記（業務番号と見積り番号）・状態（表示する時刻で失効なら「失効」。Bolt 12 レビュー R-02）・依頼時刻・有効期限で、依頼時刻の古い順に示し、行から S-04 を開ける（2026-10-06 に承認）。Bolt 20 で、表を「経路設計中・荷主承認待ち・予約待ち」にし、荷主承認待ち・予約待ちの見積依頼も並べ、状態に「荷主承認待ち」「荷主承認済み（予約待ち）」、承認の後に失効したら「失効（荷主承認済み）」を示す（予約の確定待ちの表と有効期限の近い順は US-04 の Bolt）。Bolt 23b（US-04）で「予約の確定待ち」の表を分け、荷主が承認した見積り（見積りの承認済みを正にし、輸送要求の予約待ちへの更新（DE-04 の配信）を待たない）を、見積りの表記、経路（案件番号と経路版）、荷主の承認（日時）、有効期限（表示する時刻で失効なら「失効（荷主承認済み）」）で、有効期限の近い順に示す。有効期限の前の行は「…の本予約の確定へ」で S-09 を開ける。Bolt 35c（D-85）で、この表に 2 種類の行を出す。1 つは荷主が承認した見積りの行（承認済み）、もう 1 つは荷主の承認の後に失効した見積りを再見積りして算出し、まだ提示していない見積り（経路を引き継いだ承認待ち）の行で、輸送要求が経路設計中・荷主承認待ち・予約待ちのどれでも出す（旧版の DE-04 が届く前に再見積りしても出る）。承認済みで期限内の行は今のまま「TR-… 見積 n の本予約の確定へ」で S-09 を、承認済みで失効した行は「TR-… 見積 n を再見積りする」で S-04 の再見積りのフォームを直接開き、承認待ちの行は「TR-… 見積 n を開く（承認待ち）」で S-04 の見積りの画面を開く（どちらのリンクの名前も業務番号から始める）。承認待ちの行が提示の前に有効期限を過ぎたときは、状態を「失効」とし、「TR-… 見積 n を再見積りする」で再見積りのフォームを開く（開発レビュー。human:kakimomokuri）。承認待ちの行は、状態の欄を「承認待ち」（見積りの状態の表示名。新しい語を作らない）とし、荷主の承認の欄は再承認の前なので経路設計中の表と同じく「—」と見えない文字と凡例で示す。社内承認して提示すると、経路設計中・荷主承認待ちの表に「荷主承認待ち」で移る（この表は、輸送要求が予約待ちのままでも荷主承認待ちの見積りの行を出す。DE-24 で輸送要求が荷主承認待ちに戻る前でも、提示した見積りが一覧から消えないように。開発レビュー。human:kakimomokuri）。Bolt 23b の開発レビューで足した暫定の案内（失効した行があれば表の下に「失効（荷主承認済み）の見積りは本予約を確定できません。荷主の承認の後に失効した見積りの再見積りは、まだ画面で操作できません。扱いは担当者で相談してください。」と示し、失効した行は「…の見積りを開く」で S-04 を開いた）は Bolt 35c で消す。経路設計中・荷主承認待ちの表には経路の確定の時刻の列を足す（詳細設計依頼済みの行は「—」と凡例。Bolt 20 レビュー D-78 の割当て時刻は、割当ての時刻を持たないため経路の確定の時刻で代える）。本予約を確定すると、DE-07 の配信で輸送要求が予約確定済みになった後に行が消える（それまでに行から開くと、同じ見積りの予約があるとして S-02 に戻す）。Bolt 24 で、同じ見積りの予約があるときの結果のお知らせ「TR-2026-0001 見積 1 はすでに予約に使われています（追跡番号 CTxxxxxxxxxxxx）。」と、お知らせの文の外に「CTxxxxxxxxxxxx の予約の詳細を開く」（S-24。リンクの名前だけで何の予約か分かるように追跡番号を入れる。WCAG 2.4.4、Bolt 24 レビュー U-1）を示す。衝突（同じコマンド ID で内容が違う）は警告のお知らせ「TR-2026-0001 見積 1 は確定していません。この操作はすでに別の内容で受け付けています。受付一覧から開き直してください。」。Bolt 37e3（US-07 AC5）で、予約の確定待ちの表の照会の行に再設計要の有無（割り当てた経路の再設計要の印）を足す。印のある行は表から除かず（除くと、期限の後の再見積りの入口が消え、D-86 の変更と食い違う）、行の経路の欄に「RC-… 版 n（経路が再設計要）」と示して「TR-… 見積 n の本予約の確定へ」（S-09）を出さず、期限内の承認済みは代わりに「TR-… 見積 n を開く（経路が再設計要）」で見積り（S-04）を開ける。承認済みで失効した行は「TR-… 見積 n を再見積りする」を今のまま出し（新しい見積りも経路と印を引き継ぐ）、経路を引き継いだ承認待ちの行は「TR-… 見積 n を開く（承認待ち）」で S-04 を今のまま開ける（提示しても荷主は承認できないので、担当者が経路設計者と相談する）。印のない行は今のまま（Bolt 37e3 計画の状態の組み合わせの行 5〜8）。Bolt 37e4（US-07 AC5、D-88）で、予約の確定待ちの表の照会の行に割り当てた経路の最初の区間の出発予定を足す。最初の区間が出発済み（出発予定が表示する時刻と同時刻か前）で承認済み・期限内の行は、経路の欄に「RC-… 版 n（最初の区間が出発済み）」と示して「TR-… 見積 n の本予約の確定へ」（S-09）を出さず、代わりに「TR-… 見積 n を開く（最初の区間が出発済み）」で見積り（S-04）を開ける。再設計要と出発済みの両方なら「（経路が再設計要）」だけを示す（理由の順と同じ）。出発済みでない行は今のまま（Bolt 37e4 計画の状態の組み合わせの行 12・13） |
 | S-09 本予約の確定 | `GET /staff/bookings/new?transportRequest={業務番号}&quotation={見積り番号}`、`POST /staff/bookings` | Bolt 23b（US-04 AC1・AC2。Bolt 35 で AC3・AC5）。画面そのものが確認の領域（C-17・S-07 と同じ。別のダイアログは挟まない。BR-13）。確定条件の表（見出しに業務ルールの番号を出さない。貨物の要約は「一般 / パレット × 12 / 8,400 kg / 32.5 m3」の形で、名前と重量・容積の書式は見積りが決める。Bolt 29c、#46）（有効な見積り: 承認済みと有効期限、必須貨物情報: 貨物の要約、荷主担当者の承認: 日時（名前は出さない。D-72）、承認済み経路版: 案件番号と経路版、営業担当者の確認）と「この表示は開いた時刻での確認です。有効期限の判定は確定の時刻で行い、期限と同時刻以後は確定できません。」、確認の項目（対象、変更内容「本予約を確定し、追跡番号を発行します」、影響「確定の後の変更・取消しは申請と営業の承認が必要になります」、回復手段「集荷前なら変更・取消しを申請できます（申請の画面は準備中です）」）、「契約条件と照合した」のチェックと「本予約を確定する」。確定すると PRG で S-24 に「TR-2026-0001 見積 1 で本予約を確定しました。追跡番号は CTxxxxxxxxxxxx です。」（Bolt 25 で「追跡の開始を待っています。」を外した。追跡の開始の状態はお知らせではなく S-24 の欄で示し、送り直しのときも事実と合わせる）。チェックがない・貨物の要約が空は S-09 にエラー要約（「営業担当者の確認: …」「必須貨物情報: …」の形。両方欠ければ 1 回の送信で両方を示す。Bolt 35、AC3）で残し、チェックに誤りの文言を `aria-describedby` で関連付ける。確定に使えない見積り（失効・置換済み・未承認）と確定済みは、開いても送っても S-02 に戻して理由と次の行動を示す（失効は「…は有効期限を過ぎたため本予約を確定できません。再見積りが必要です。」、置換済みは「…は新しい見積りに置き換えられたため本予約を確定できません。最新の見積りを確かめてください。」、未承認は「…は荷主の承認がまだのため本予約を確定できません。」）。Bolt 37e3（US-07 AC5）で、割り当てた経路に再設計要の印のある見積りを確定に使えない理由に足し、開いても送っても S-02 に戻して「TR-2026-0001 見積 1 は割り当てた経路が再設計要のため本予約を確定できません。経路設計者と扱いを相談してください。」を示す（予約の腐敗防止層の理由 `ROUTE_REDESIGN_REQUIRED`。Bolt 37e2 までは未承認の文言になった。Bolt 37e3 計画の状態の組み合わせの行 9）。見積りの公開 API が知らない理由を返したら、今のまま未承認の文言にする（同じ表の行 13）。Bolt 37e4（US-07 AC5、D-88）で、割り当てた経路の最初の区間が出発済み（出発予定が判定時刻と同時刻か前。送ったときは commit 時刻）の見積りも確定に使えない理由に足し、開いても送っても S-02 に戻して「TR-2026-0001 見積 1 は割り当てた経路の最初の区間が出発済みのため本予約を確定できません。荷主と扱いを相談してください。」を示す（予約の腐敗防止層の理由 `ROUTE_ALREADY_DEPARTED`。これまでは未承認の文言になった。再設計要と両方なら再設計要の文言。Bolt 37e4 計画の状態の組み合わせの行 15・16）。見つからない見積り・業務番号の形でない番号は 404。URL に内部の ID を出さない（D-4）。Bolt 24（US-04 AC4、B-INV-03・B-INV-11）: 開くたびに新しいコマンド ID を発行し、隠し項目 `commandId` で送る。同じコマンド ID の再送（二重送信、戻る → 再送）には最初の結果（同じ追跡番号の S-24 と同じ文言）を返す。同じ見積りの予約がある（別のコマンド ID・別の利用者）ときは、開いても送っても、見積りの照会より前に判定して S-02 に戻し、既存の追跡番号と S-24 への導線を示す（確定の後に見積りが失効・置換されても失効とは示さない）。同じコマンド ID で内容が違えば衝突として S-02 に戻す。`commandId` の欠け・形の誤りは 400（利用者が入れる値ではない）。Bolt 35（US-04 AC5、B-INV-04）: 危険物・冷凍貨物・その他特殊貨物を含む見積りは、開いたときから確定条件の表の上にエラー要約（見出し「本予約を確定できませんでした」、文言「危険物・冷凍貨物・その他特殊貨物を含む見積りは、MVP の対象外のため本予約を確定できません。手動の窓口で扱ってください。」。直す欄がないのでリンクにしない。種別名は出さない）を示し、確認の項目・チェック・「本予約を確定する」と開いた時刻の注を出さない（確定条件の表の「営業担当者の確認」は「確定できないため要りません」）。送っても同じ文言で S-09 に残す（拒んだ結果から示す）。エラー要約が出たら要約へフォーカスを移す（共通部品「エラー要約」。Bolt 35 から S-09 も同じ）（通常は見積依頼の提出で拒むので、ここに届くのは提出の規則の外で受け付けた見積りだけ） |
 | C-06 予約一覧（荷主） | `GET /customer/bookings` | Bolt 27b の最小の表示（Bolt 27 の終了報告の承認の場の指摘）。荷主担当者の企業の本予約だけを示す（荷主企業はリポジトリの照会で絞る。BR-07）。見出し「予約一覧」、表の caption「自社の確定した予約（確定時刻の新しい順）」（BR-07 の範囲をスクリーンリーダーでも伝える）、横スクロールの囲み（S-10・C-10 と同じ）。表の前に「追跡が始まった予約は、追跡番号から追跡の照会を開けます。追跡の開始待ちは、しばらくして開き直すと追跡中に変わります。」（リンクになる行とならない行が混ざる理由）。列は追跡番号（追跡中なら C-10 の照会の結果 `/customer/tracking-records/{追跡番号}` へのリンク、追跡の開始待ちなら文字だけ。追跡記録がないと C-10 は 404 の案内になるため）・見積依頼（業務番号を C-04 へのリンクにし、続けて「見積 1」。リンクの名前を行き先にそろえる）・確定時刻（最初の確定の時刻。荷主の日時表示で UTC を併記しない）・追跡の状況（「追跡中」「追跡の開始待ち」「追跡の開始待ち（担当営業が確認します）」。共通部品「処理中表示」の荷主の語。C-10 の「現在の状態」と取り違えないよう列名を「追跡の状況」にした）。新しい順に 50 件まで、超えたら「新しい 50 件だけを示しています。それより前の予約は、追跡番号を入れて追跡の照会で確かめてください。」（追跡の照会へのリンク。C-10 の上限の文言と同じく次の一手を示す）。予約がなければ「確定した予約はまだありません。担当営業が本予約を確定すると、ここに出ます。承認した見積りの状況は見積依頼の一覧で確かめられます。」（C-02 へのリンク）。C-10 の結果の「追跡の照会へ戻る」は C-10 の一覧に戻り、C-06 にはナビで戻る。絞り込み・ページ送り・C-07 予約の詳細・変更・取消申請の状況は US-05（W11） |
@@ -1001,9 +1001,9 @@ A-08 は、回復コードでログインした利用者が認証アプリを登
     承認済み経路 | 経路版 1（経路設計者 鈴木が 2026-10-03 承認）
   }
   {#
-    区間 | 航海 | 出発の予定（Asia/Tokyo） | 到着の予定（Asia/Tokyo）
-    東京 → シンガポール | V-381 | 2026-10-12 12:00 | 2026-10-20 17:00
-    シンガポール → ロッテルダム | V-417 | 2026-10-22 15:00 | 2026-10-30 18:00
+    航海 | 積地 → 揚地 | 出発予定 | 到着予定
+    V-381 | 東京 → シンガポール | 2026-10-12 12:00 | 2026-10-20 17:00
+    V-417 | シンガポール → ロッテルダム | 2026-10-22 15:00 | 2026-10-30 18:00
   }
   {
     搬入締切 | 2026-10-10 17:00 Asia/Tokyo（UTC+09:00）
@@ -1375,7 +1375,7 @@ A-08 は、回復コードでログインした利用者が認証アプリを登
     最新の到着見込み | 2026-11-16 12:00 Asia/Tokyo（UTC+09:00）
   }
   <b>予定
-  1. 区間 1、航海 V100、JPTYO から KRPUS
+  1. 航海 V100、JPTYO から KRPUS
   　 出発予定 2026-11-01 09:00 Asia/Tokyo（UTC+09:00）
   　 到着予定 2026-11-03 09:00 Asia/Tokyo（UTC+09:00）
   <b>主要実績

diff --git a/docs/manual/用語集.md b/docs/manual/用語集.md
@@ -4,7 +4,7 @@ title: "付録 A 用語集"
 description: "本マニュアルと画面で使う言葉です。"
 tags: [manual,cargo-tracker]
 status: draft
-generated: { by: anthropic/claude-opus-5-5, at: 2026-10-23T11:32:11Z }
+generated: { by: anthropic/claude-opus-5-5, at: 2026-10-24T11:57:25Z }
 ---
 
 # 付録 A 用語集
@@ -40,6 +40,7 @@ generated: { by: anthropic/claude-opus-5-5, at: 2026-10-23T11:32:11Z }
 | 判定時刻 | 経路候補を算出した時刻。この時刻より後に出発する区間で候補を作り、この時刻に航海の情報が古くないかを判定します |
 | 情報不足 | 経路候補に使う航海の情報が、取得から許容時間（いまは 24 時間）を過ぎていること。その候補は除外され、確定する時刻に情報不足なら適合の候補でも確定できません |
 | 確定した経路（経路版） | 経路設計者が判断根拠を残して確定した経路。番号（RC-…）と版で識別します |
+| 区間 | 経路のうち、1 つの航海で積地から揚地まで運ぶ部分。社内の画面の語で、荷主の画面とマニュアルの荷主の章では「航海」と示します |
 | 再設計要 | 確定した経路が、外部情報（航海の予定など）の更新で希望到着期限・接続時間を満たさなくなった、または区間の航海の予定が使えなくなった（欠航・寄港の取りやめ・寄港の予定の矛盾など）状態。システムが評価して付けます。再設計要の経路では確定し直せません。再設計（新しい経路版を作ること）の操作は、まだありません。再設計要の経路を割り当てた見積りは、荷主が承認できず、本予約を確定できず、有効期限まで再見積りもできません。扱いは、経路設計者は担当営業と、営業担当者は経路設計者と相談してください。荷主の画面には「再設計要」と示さず「割り当てた経路の見直しが必要」と示し、担当営業への相談を案内します |
 | 出発済み | 経路の最初の区間の出発予定を、判定の時刻（経路の確定の時刻、荷主の承認の時刻、本予約の確定の時刻、再見積りの時刻、画面を表示した時刻）に過ぎていること。出発予定と同じ時刻も出発済みです。出発済みの経路は確定できません。割り当てた経路の最初の区間が出発済みの見積りは、荷主が承認できず、本予約を確定できず、荷主の承認の後なら有効期限まで再見積りもできません。営業担当者は荷主と扱いを相談してください。荷主の画面には「区間」「出発済み」と示さず「割り当てた経路の最初の航海がすでに出発した」と示し、担当営業への相談を案内します |
 | 参照した航海情報の版 | 経路候補の判定に使った航海の情報の版。「航海番号@版」で示します（例: V-201@1）。確定した経路の版（経路版）とは別のものです |
